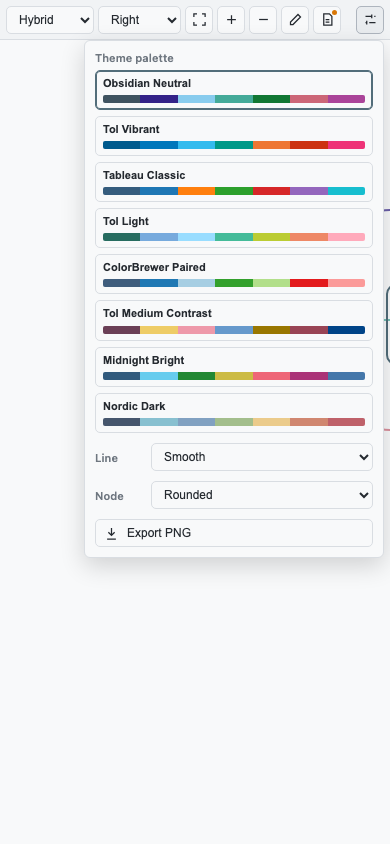
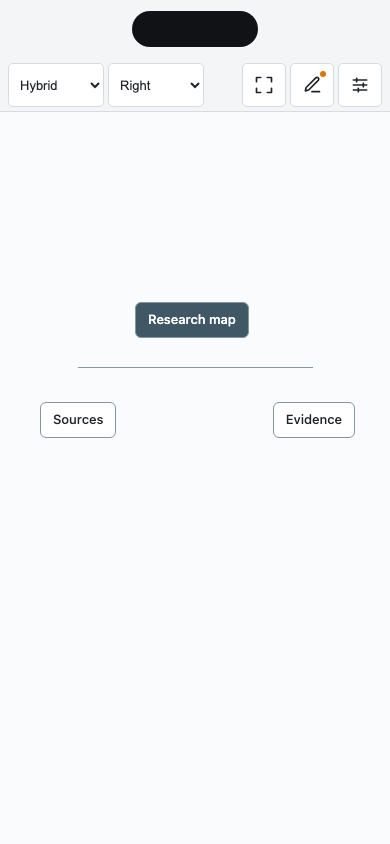
Add mobile safe-area toolbar

diff --git a/styles.css b/styles.css
@@ -276,6 +276,10 @@
   justify-content: flex-start;
 }
 
+.stratify-mobile-only {
+  display: none;
+}
+
 /* ---------- Canvas ---------- */
 
 .stratify-canvas {
@@ -887,52 +891,127 @@
   border-top: 1px solid var(--background-modifier-border);
 }
 
+.stratify-overlay.stratify-mobile {
+  --stratify-node-max-width: 220px;
+  --stratify-safe-top: max(var(--safe-area-inset-top, 0px), env(safe-area-inset-top, 0px));
+  --stratify-safe-right: max(var(--safe-area-inset-right, 0px), env(safe-area-inset-right, 0px));
+  --stratify-safe-left: max(var(--safe-area-inset-left, 0px), env(safe-area-inset-left, 0px));
+}
+
+.stratify-overlay.stratify-mobile .stratify-toolbar {
+  position: relative;
+  flex-wrap: nowrap;
+  gap: 4px;
+  min-height: 0;
+  padding:
+    calc(var(--stratify-safe-top) + 4px)
+    max(8px, var(--stratify-safe-right))
+    4px
+    max(8px, var(--stratify-safe-left));
+}
+
+.stratify-overlay.stratify-mobile .stratify-toolbar > .stratify-toolbar-group > .stratify-toolbar-label {
+  display: none;
+}
+
+.stratify-overlay.stratify-mobile .stratify-structure-control,
+.stratify-overlay.stratify-mobile .stratify-layout-control {
+  flex: 1 1 0;
+  min-width: 0;
+  max-width: 96px;
+}
+
+.stratify-overlay.stratify-mobile .stratify-toolbar-actions {
+  flex: 0 0 auto;
+  gap: 4px;
+  margin-left: auto;
+}
+
+.stratify-overlay.stratify-mobile .stratify-select {
+  width: 100%;
+  min-width: 0;
+  max-width: none;
+  height: 44px;
+  padding: 0 20px 0 7px;
+  font-size: 13px;
+}
+
+.stratify-overlay.stratify-mobile .stratify-icon-btn {
+  width: 44px;
+  min-width: 44px;
+  height: 44px;
+  min-height: 44px;
+}
+
+.stratify-overlay.stratify-mobile .stratify-icon-btn svg,
+.stratify-overlay.stratify-mobile .stratify-menu-action svg {
+  width: 20px;
+  height: 20px;
+}
+
+.stratify-overlay.stratify-mobile .stratify-desktop-zoom,
+.stratify-overlay.stratify-mobile .stratify-desktop-source-only {
+  display: none;
+}
+
+.stratify-overlay.stratify-mobile .stratify-mobile-source-only {
+  position: relative;
+}
+
+.stratify-overlay.stratify-mobile .stratify-mobile-source-only::after {
+  content: '';
+  position: absolute;
+  top: 7px;
+  right: 7px;
+  width: 6px;
+  height: 6px;
+  border-radius: 50%;
+  background: var(--color-orange, #D97706);
+  box-shadow: 0 0 0 1px var(--background-primary);
+}
+
+.stratify-overlay.stratify-mobile .stratify-more {
+  position: static;
+  flex: 0 0 auto;
+  margin-left: 0;
+}
+
+.stratify-overlay.stratify-mobile .stratify-more-panel {
+  top: calc(100% + 6px);
+  right: max(8px, var(--stratify-safe-right));
+  left: max(8px, var(--stratify-safe-left));
+  width: auto;
+  max-height: min(58vh, calc(100vh - var(--stratify-safe-top) - 72px));
+  max-height: min(58dvh, calc(100dvh - var(--stratify-safe-top) - 72px));
+  box-sizing: border-box;
+}
+
+.stratify-overlay.stratify-mobile .stratify-more-panel .stratify-toolbar-label {
+  display: block;
+}
+
+.stratify-overlay.stratify-mobile .stratify-more-panel .stratify-select {
+  height: 44px;
+}
+
+.stratify-overlay.stratify-mobile .stratify-mobile-only {
+  display: grid;
+}
+
+.stratify-overlay.stratify-mobile .stratify-mobile-zoom {
+  align-items: center;
+}
+
+.stratify-overlay.stratify-mobile .stratify-mobile-zoom-actions {
+  display: flex;
+  gap: 8px;
+}
+
+.stratify-overlay.stratify-mobile .stratify-menu-action {
+  min-height: 44px;
+}
+
 @media (max-width: 520px) {
-  .stratify-overlay {
-    --stratify-node-max-width: 220px;
-  }
-
-  .stratify-toolbar {
-    gap: 4px;
-    padding: 5px 6px;
-  }
-
-  .stratify-toolbar-label {
-    display: none;
-  }
-
-  .stratify-toolbar-group {
-    gap: 4px;
-  }
-
-  .stratify-toolbar-actions {
-    margin-left: 0;
-  }
-
-  .stratify-select {
-    max-width: 88px;
-  }
-
-  .stratify-more-panel .stratify-toolbar-label {
-    display: block;
-  }
-
-  .stratify-more-panel .stratify-select {
-    max-width: none;
-  }
-
-  .stratify-more {
-    margin-left: auto;
-  }
-
-  .stratify-more-panel {
-    width: min(300px, calc(100vw - 16px));
-  }
-
-  .stratify-theme-picker {
-    grid-template-columns: minmax(0, 1fr);
-  }
-
   .stratify-fab {
     right: 12px;
     bottom: 12px;

diff --git a/src/main.ts b/src/main.ts
@@ -675,6 +675,7 @@ class StratifyMindmapPlugin extends obsidian.Plugin {
         if (!overlay) {
           overlay = view.contentEl.createDiv({ cls: 'stratify-overlay' });
         }
+        overlay.classList.toggle('stratify-mobile', obsidian.Platform.isMobile);
         if (overlay.classList.contains('stratify-hidden')) {
           view.contentEl.removeClass('stratify-map-visible');
         } else {
@@ -1355,7 +1356,7 @@ class StratifyMindmapPlugin extends obsidian.Plugin {
     };
 
     const toolbar = overlay.createDiv({ cls: 'stratify-toolbar' });
-    const structureGroup = toolbar.createDiv({ cls: 'stratify-toolbar-group' });
+    const structureGroup = toolbar.createDiv({ cls: 'stratify-toolbar-group stratify-structure-control' });
     structureGroup.createSpan({ cls: 'stratify-toolbar-label', text: 'Mode' });
     const structureSelect = structureGroup.createEl('select', { cls: 'stratify-select' });
     for (const id of objectKeys(STRUCTURE_MODES)) {
@@ -1400,7 +1401,7 @@ class StratifyMindmapPlugin extends obsidian.Plugin {
       }
     };
 
-    const layoutGroup = toolbar.createDiv({ cls: 'stratify-toolbar-group' });
+    const layoutGroup = toolbar.createDiv({ cls: 'stratify-toolbar-group stratify-layout-control' });
     layoutGroup.createSpan({ cls: 'stratify-toolbar-label', text: 'Layout' });
     const layoutSelect = layoutGroup.createEl('select', { cls: 'stratify-select' });
     for (const l of [
@@ -1424,8 +1425,8 @@ class StratifyMindmapPlugin extends obsidian.Plugin {
 
     const actions = toolbar.createDiv({ cls: 'stratify-toolbar-group stratify-toolbar-actions' });
     const fitBtn = makeIconButton(actions, 'maximize-2', 'Fit mindmap to view');
-    const zoomInBtn = makeIconButton(actions, 'plus', 'Zoom in');
-    const zoomOutBtn = makeIconButton(actions, 'minus', 'Zoom out');
+    const zoomInBtn = makeIconButton(actions, 'plus', 'Zoom in', 'stratify-desktop-zoom');
+    const zoomOutBtn = makeIconButton(actions, 'minus', 'Zoom out', 'stratify-desktop-zoom');
     const editBtn = makeIconButton(actions, 'file-pen-line', 'Edit Markdown source');
     const showSource = () => {
       overlay.classList.add('stratify-hidden');
@@ -1435,11 +1436,12 @@ class StratifyMindmapPlugin extends obsidian.Plugin {
     editBtn.onclick = showSource;
 
     if (this._hasSourceOnlyContent(parsed)) {
+      editBtn.classList.add('stratify-mobile-source-only');
       const sourceOnlyBtn = makeIconButton(
         actions,
         'file-text',
         'Markdown-only content is preserved in the source',
-        'stratify-source-only'
+        'stratify-source-only stratify-desktop-source-only'
       );
       sourceOnlyBtn.onclick = showSource;
     }
@@ -1447,7 +1449,7 @@ class StratifyMindmapPlugin extends obsidian.Plugin {
     const more = toolbar.createEl('details', { cls: 'stratify-more' });
     const moreToggle = more.createEl('summary', {
       cls: 'stratify-btn stratify-icon-btn',
-      attr: { 'aria-label': 'Appearance and export', title: 'Appearance and export' }
+      attr: { 'aria-label': 'View and export options', title: 'View and export options' }
     });
     obsidian.setIcon(moreToggle, 'sliders-horizontal');
     const morePanel = more.createDiv({ cls: 'stratify-more-panel' });
@@ -1524,6 +1526,14 @@ class StratifyMindmapPlugin extends obsidian.Plugin {
       void this._persistFrontmatterValue(file, 'mindmap-node', id);
     };
 
+    const mobileZoomGroup = morePanel.createDiv({
+      cls: 'stratify-toolbar-field stratify-mobile-only stratify-mobile-zoom'
+    });
+    mobileZoomGroup.createSpan({ cls: 'stratify-toolbar-label', text: 'Zoom' });
+    const mobileZoomActions = mobileZoomGroup.createDiv({ cls: 'stratify-mobile-zoom-actions' });
+    const mobileZoomOutBtn = makeIconButton(mobileZoomActions, 'minus', 'Zoom out');
+    const mobileZoomInBtn = makeIconButton(mobileZoomActions, 'plus', 'Zoom in');
+
     const exportBtn = morePanel.createEl('button', {
       cls: 'stratify-btn stratify-menu-action',
       attr: { type: 'button' }
@@ -1578,6 +1588,8 @@ class StratifyMindmapPlugin extends obsidian.Plugin {
     fitBtn.onclick = () => this._fitTo(canvas, inner);
     zoomInBtn.onclick = () => this._zoomBy(canvas, inner, 1.2);
     zoomOutBtn.onclick = () => this._zoomBy(canvas, inner, 1 / 1.2);
+    mobileZoomInBtn.onclick = () => this._zoomBy(canvas, inner, 1.2);
+    mobileZoomOutBtn.onclick = () => this._zoomBy(canvas, inner, 1 / 1.2);
 
     this._renderTreeIntoCanvas(overlay, false);
   }

diff --git a/CHANGELOG.md b/CHANGELOG.md
@@ -1,5 +1,12 @@
 # Changelog
 
+## 1.1.9
+
+- Kept the mobile toolbar at the top while moving its controls below iOS and Android display cutouts.
+- Increased mobile controls to 44-pixel touch targets and kept Mode, Layout, Fit, Edit Markdown, and options in one row.
+- Moved mobile zoom controls into the full-width options panel and changed source-only content to an edit-button status marker.
+- Left the desktop toolbar unchanged.
+
 ## 1.1.5
 
 - Fixed layout measurements after zooming and stopped wheel or button zoom from drifting at scale limits.

diff --git a/README.md b/README.md
@@ -20,6 +20,7 @@ The interface is deliberately compact: structure and layout stay in the main too
 - Configurable node font size and matching PNG export text
 - Automatic wrapping for long labels and a more compact layout
 - Source-only Markdown preservation indicators
+- Safe-area-aware mobile toolbar with 44-pixel touch targets
 - Desktop and mobile support
 
 ## Interface Preview
@@ -36,7 +37,7 @@ The images below are interface previews of the current Stratify layout.
 
 ### Mobile Toolbar
 
-<img src="https://raw.githubusercontent.com/Lywooye/stratify-mindmap/main/assets/mobile-toolbar.png" alt="Stratify Mindmap mobile toolbar and appearance menu" width="390">
+<img src="https://raw.githubusercontent.com/Lywooye/stratify-mindmap/main/assets/mobile-toolbar.png" alt="Stratify Mindmap mobile toolbar below the Dynamic Island safe area" width="390">
 
 ## Markdown Structure Modes
 
@@ -73,7 +74,7 @@ mindmap-node: rounded
 
 Headings and list items become mind map nodes. Other Markdown, including ordinary paragraphs, blockquotes, code blocks, tables, and comments, remains in the source instead of being silently converted into nodes or comments.
 
-Content before the first node is preserved as document-level source. Content after a node stays attached to that node. An orange marker on a node and the file-text icon in the toolbar indicate that source-only Markdown is present; selecting the toolbar icon opens the Markdown source.
+Content before the first node is preserved as document-level source. Content after a node stays attached to that node. An orange marker on a node indicates that source-only Markdown is present. The desktop toolbar shows a matching file-text button; on mobile, the Edit Markdown button carries the status marker instead.
 
 Normal rendering, node editing, and structure-mode conversion preserve this content. Moving a node also moves its attached source block. Deleting that node deletes the attached block as part of the same undoable operation. A document containing only source-only content renders an empty-map state while leaving the Markdown unchanged.
 
@@ -99,7 +100,7 @@ Dragging onto the upper or lower part of a node inserts before or after it. Drop
 
 ## Toolbar and Settings
 
-The main toolbar keeps Mode, Layout, Fit, Zoom, and Edit Markdown available. The appearance menu shows every theme as a named row of color swatches, followed by connector style, node shape, and PNG export. Exported images are saved beside the source note as `<note-name>.mindmap.png`, on both desktop and mobile.
+The desktop toolbar keeps Mode, Layout, Fit, Zoom, and Edit Markdown available. On mobile, a single top row keeps Mode, Layout, Fit, Edit Markdown, and options below the system safe area with 44-pixel touch targets; zoom moves into the full-width options panel. The options menu shows every theme as a named row of color swatches, followed by connector style, node shape, zoom on mobile, and PNG export. Exported images are saved beside the source note as `<note-name>.mindmap.png`, on both desktop and mobile.
 
 The Obsidian settings page controls defaults for new or unconfigured maps, the global node font size, keyboard navigation, and leaf-node drop behavior. Existing frontmatter is not overwritten by changing defaults.
 